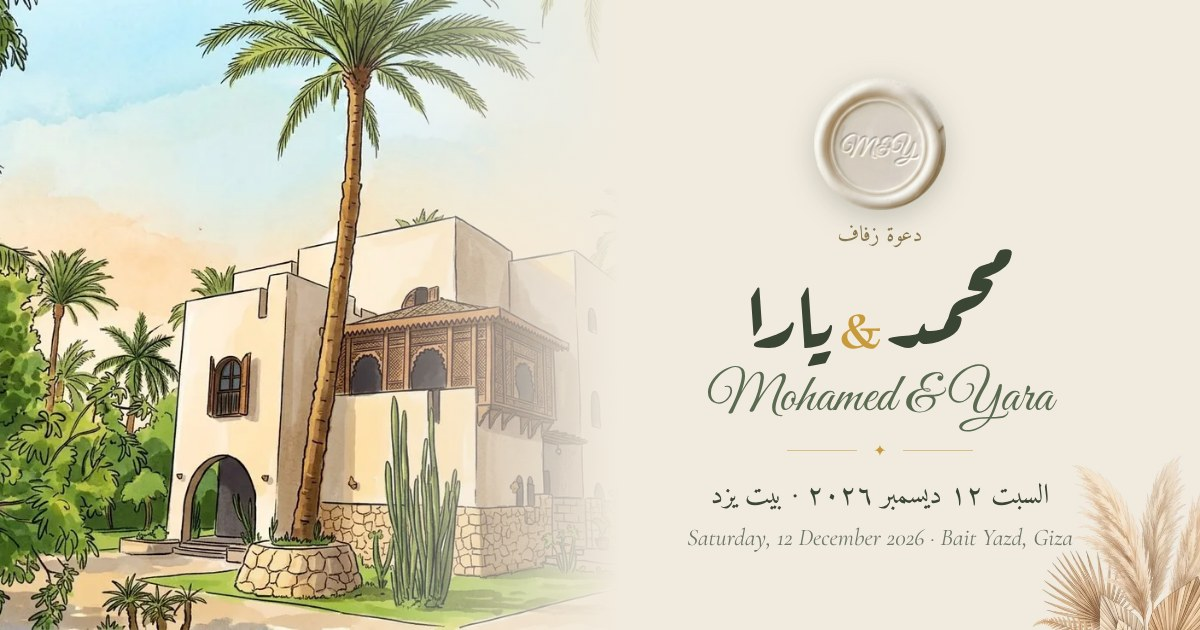
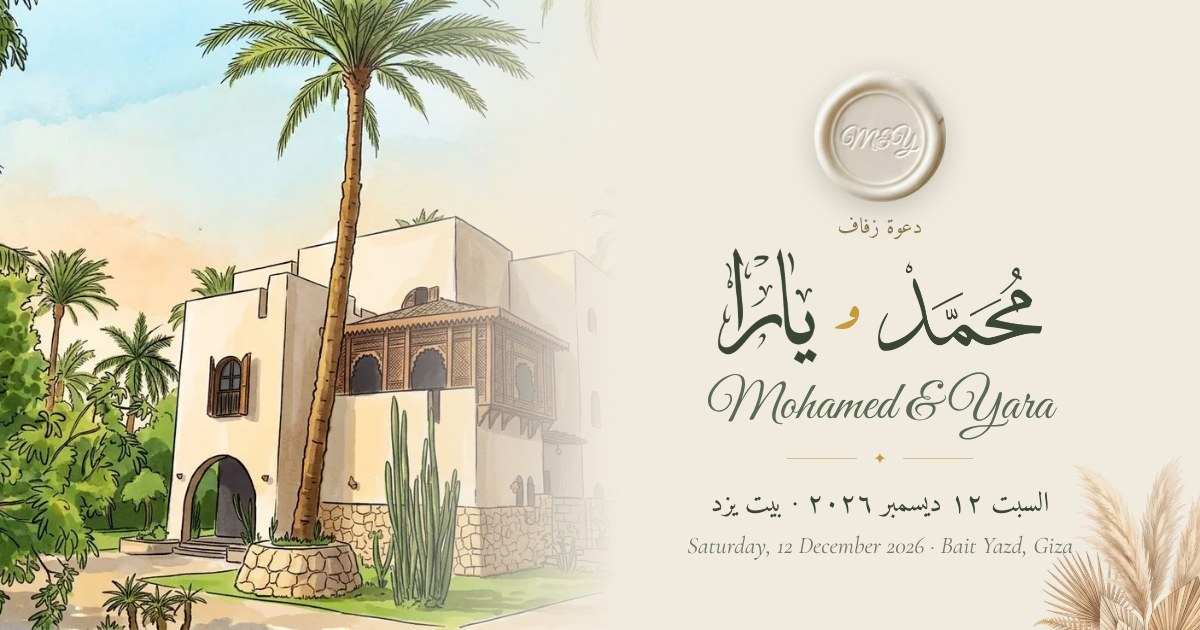
دعوة J3dUWhh: أسامي محمد ويارا بالخط اللي بعته المالك (صور) في أول صفحة والختام وصورة اللينك، وفورم تأكيد الحضور من غير الحساسية وقيود الطعام
Claude-Session: https://claude.ai/code/session_018uZ4NiSWQJUs9HnQYKa59x

diff --git a/custom-invitations/J3dUWhh.js b/custom-invitations/J3dUWhh.js
@@ -56,6 +56,9 @@ window.MITHAQ_EXTRAS_OPTS = { anchor: '#jyPhotosBox', inline: true, lang: (windo
 #jyPhotosBox .gx-card{background:rgba(255,255,255,.8)!important;border:1px solid hsl(var(--sage)/.3);border-radius:.5rem;padding:1.5rem!important;box-shadow:0 1px 2px rgba(0,0,0,.05)!important}
 #jyPhotosBox .gx-btn{border-radius:.375rem}
 html.ar #jyThanks h2,html.ar #jyPhotos h2{font-size:2rem}
+.jy-nm{filter:drop-shadow(0 4px 10px rgba(0,0,0,.35));margin:6px auto}
+.jy-row{display:inline-flex;align-items:center;gap:14px;direction:rtl}.jy-row img{width:auto;filter:drop-shadow(0 2px 6px rgba(0,0,0,.25))}
+.jy-and{font-family:'Aref Ruqaa',serif;color:hsl(var(--gold));font-size:1.6rem}
 </style>`;
 
 const TL_ICONS = [
@@ -113,7 +116,8 @@ const TEXTS = {
 };
 
 function bodyScript() {
-  const cfg = JSON.stringify({ texts: TEXTS, plan: PLAN, icons: TL_ICONS, short: SHORT }).replace(/</g, '\\u003c');
+  const names = { mw: A('name-mohamed-w.png'), yw: A('name-yara-w.png') };
+  const cfg = JSON.stringify({ texts: TEXTS, plan: PLAN, icons: TL_ICONS, short: SHORT, names }).replace(/</g, '\\u003c');
   return `<script>(function(){
 var K=${cfg};var C=window.WEDDING_CONFIG||{};var EN=C.language==='en';var L=EN?'en':'ar';var T=K.texts[L];
 var $=function(s,r){return (r||document).querySelector(s)};var $$=function(s,r){return Array.prototype.slice.call((r||document).querySelectorAll(s))};
@@ -121,6 +125,12 @@ var by=function(id){return document.querySelector('[data-elem-id="'+id+'"]')};
 Object.keys(T).forEach(function(k){var el=by(k)||document.querySelector('[data-jy="'+k+'"]');if(el)el.innerHTML=T[k]});
 $$('[data-jy]').forEach(function(el){var k=el.getAttribute('data-jy');if(T[k]!=null)el.innerHTML=T[k]});
 if(EN){$('#jyWn').placeholder='Your name';$('#jyWm').placeholder='Write us a few words...'}
+/* تأكيد الحضور من غير الحساسية وقيود الطعام */
+var al=$('#fcAllergy');if(al){var blk=al.closest('.fc-yes');if(blk)blk.parentNode.removeChild(blk)}
+/* الأسامي بالعربي بخط المالك (صور) */
+if(!EN){var N=K.names;var pic=function(id,src,h,alt){var el=by(id);if(!el)return;el.innerHTML='<img src="'+src+'" alt="'+alt+'" class="jy-nm" style="height:'+h+'px;width:auto;display:inline-block">'};
+ pic('fc3',N.mw,88,'محمد');pic('fc5',N.yw,112,'يارا');
+ var f=by('fc102');if(f)f.innerHTML='<span class="jy-row"><img src="'+N.mw+'" alt="محمد" style="height:46px"><span class="jy-and">و</span><img src="'+N.yw+'" alt="يارا" style="height:60px"></span>';}
 /* الهدية: مباركة بس */
 var gb=$('#fcGiftBtn');if(gb){var card=gb.parentNode;card.parentNode.removeChild(card)}
 /* جدول اليوم: 8 فقرات بكلام المالك */
